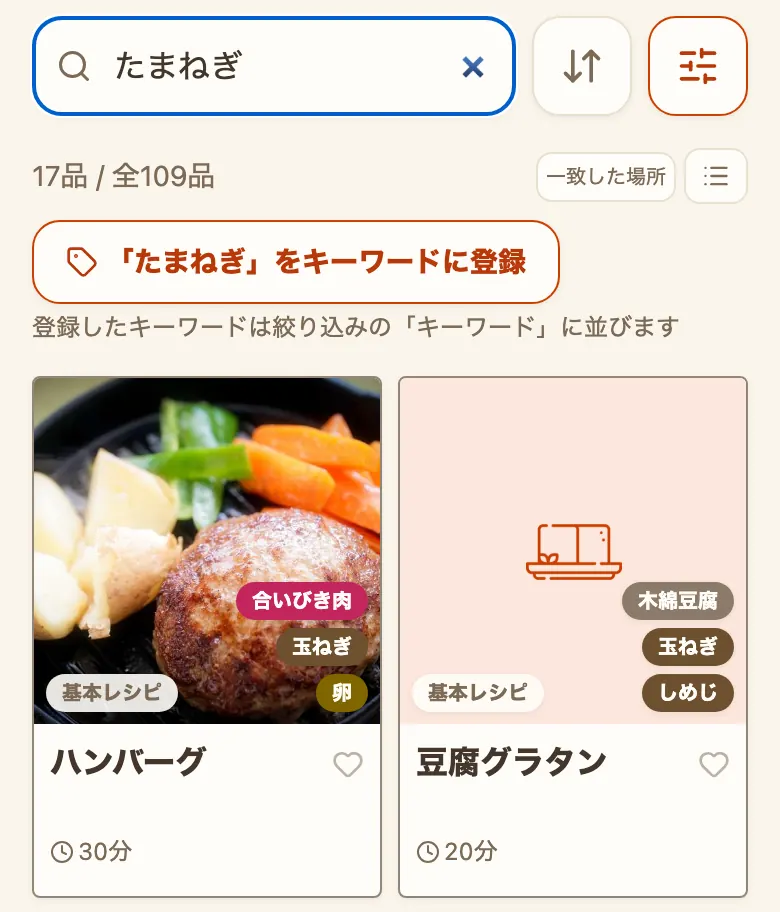
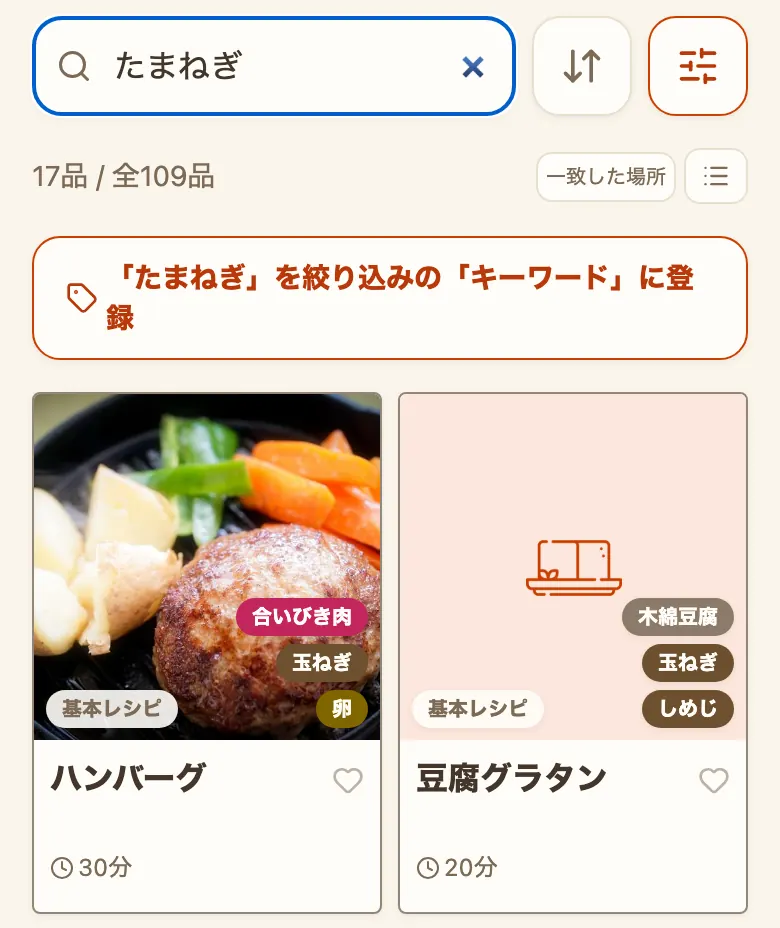
search.webpを撮り直し(改名後のボタンが写る形へ・便MX申し送り①)

diff --git a/public/about/manual.html b/public/about/manual.html
@@ -1386,7 +1386,7 @@
     <p>検索欄（「料理名・材料・タグ」）は、表記のゆれを吸収します。</p>
 
     <figure class="shot" style="--w:390px">
-      <img src="/about/img/manual/search.webp" width="780" height="912" loading="lazy" decoding="async" alt="レシピ一覧で「たまねぎ」と検索した画面。検索欄の下に当てはまった品数と全体の品数、打った言葉を絞り込みの「キーワード」に登録するボタンがあり、玉ねぎを使うレシピのカードが並んでいる">
+      <img src="/about/img/manual/search.webp" width="780" height="928" loading="lazy" decoding="async" alt="レシピ一覧で「たまねぎ」と検索した画面。検索欄の下に当てはまった品数と全体の品数、打った言葉を絞り込みの「キーワード」に登録するボタンがあり、玉ねぎを使うレシピのカードが並んでいる">
       <figcaption>「たまねぎ」で検索したところ。「玉ねぎ」と書いたレシピも表示します</figcaption>
     </figure>
 
